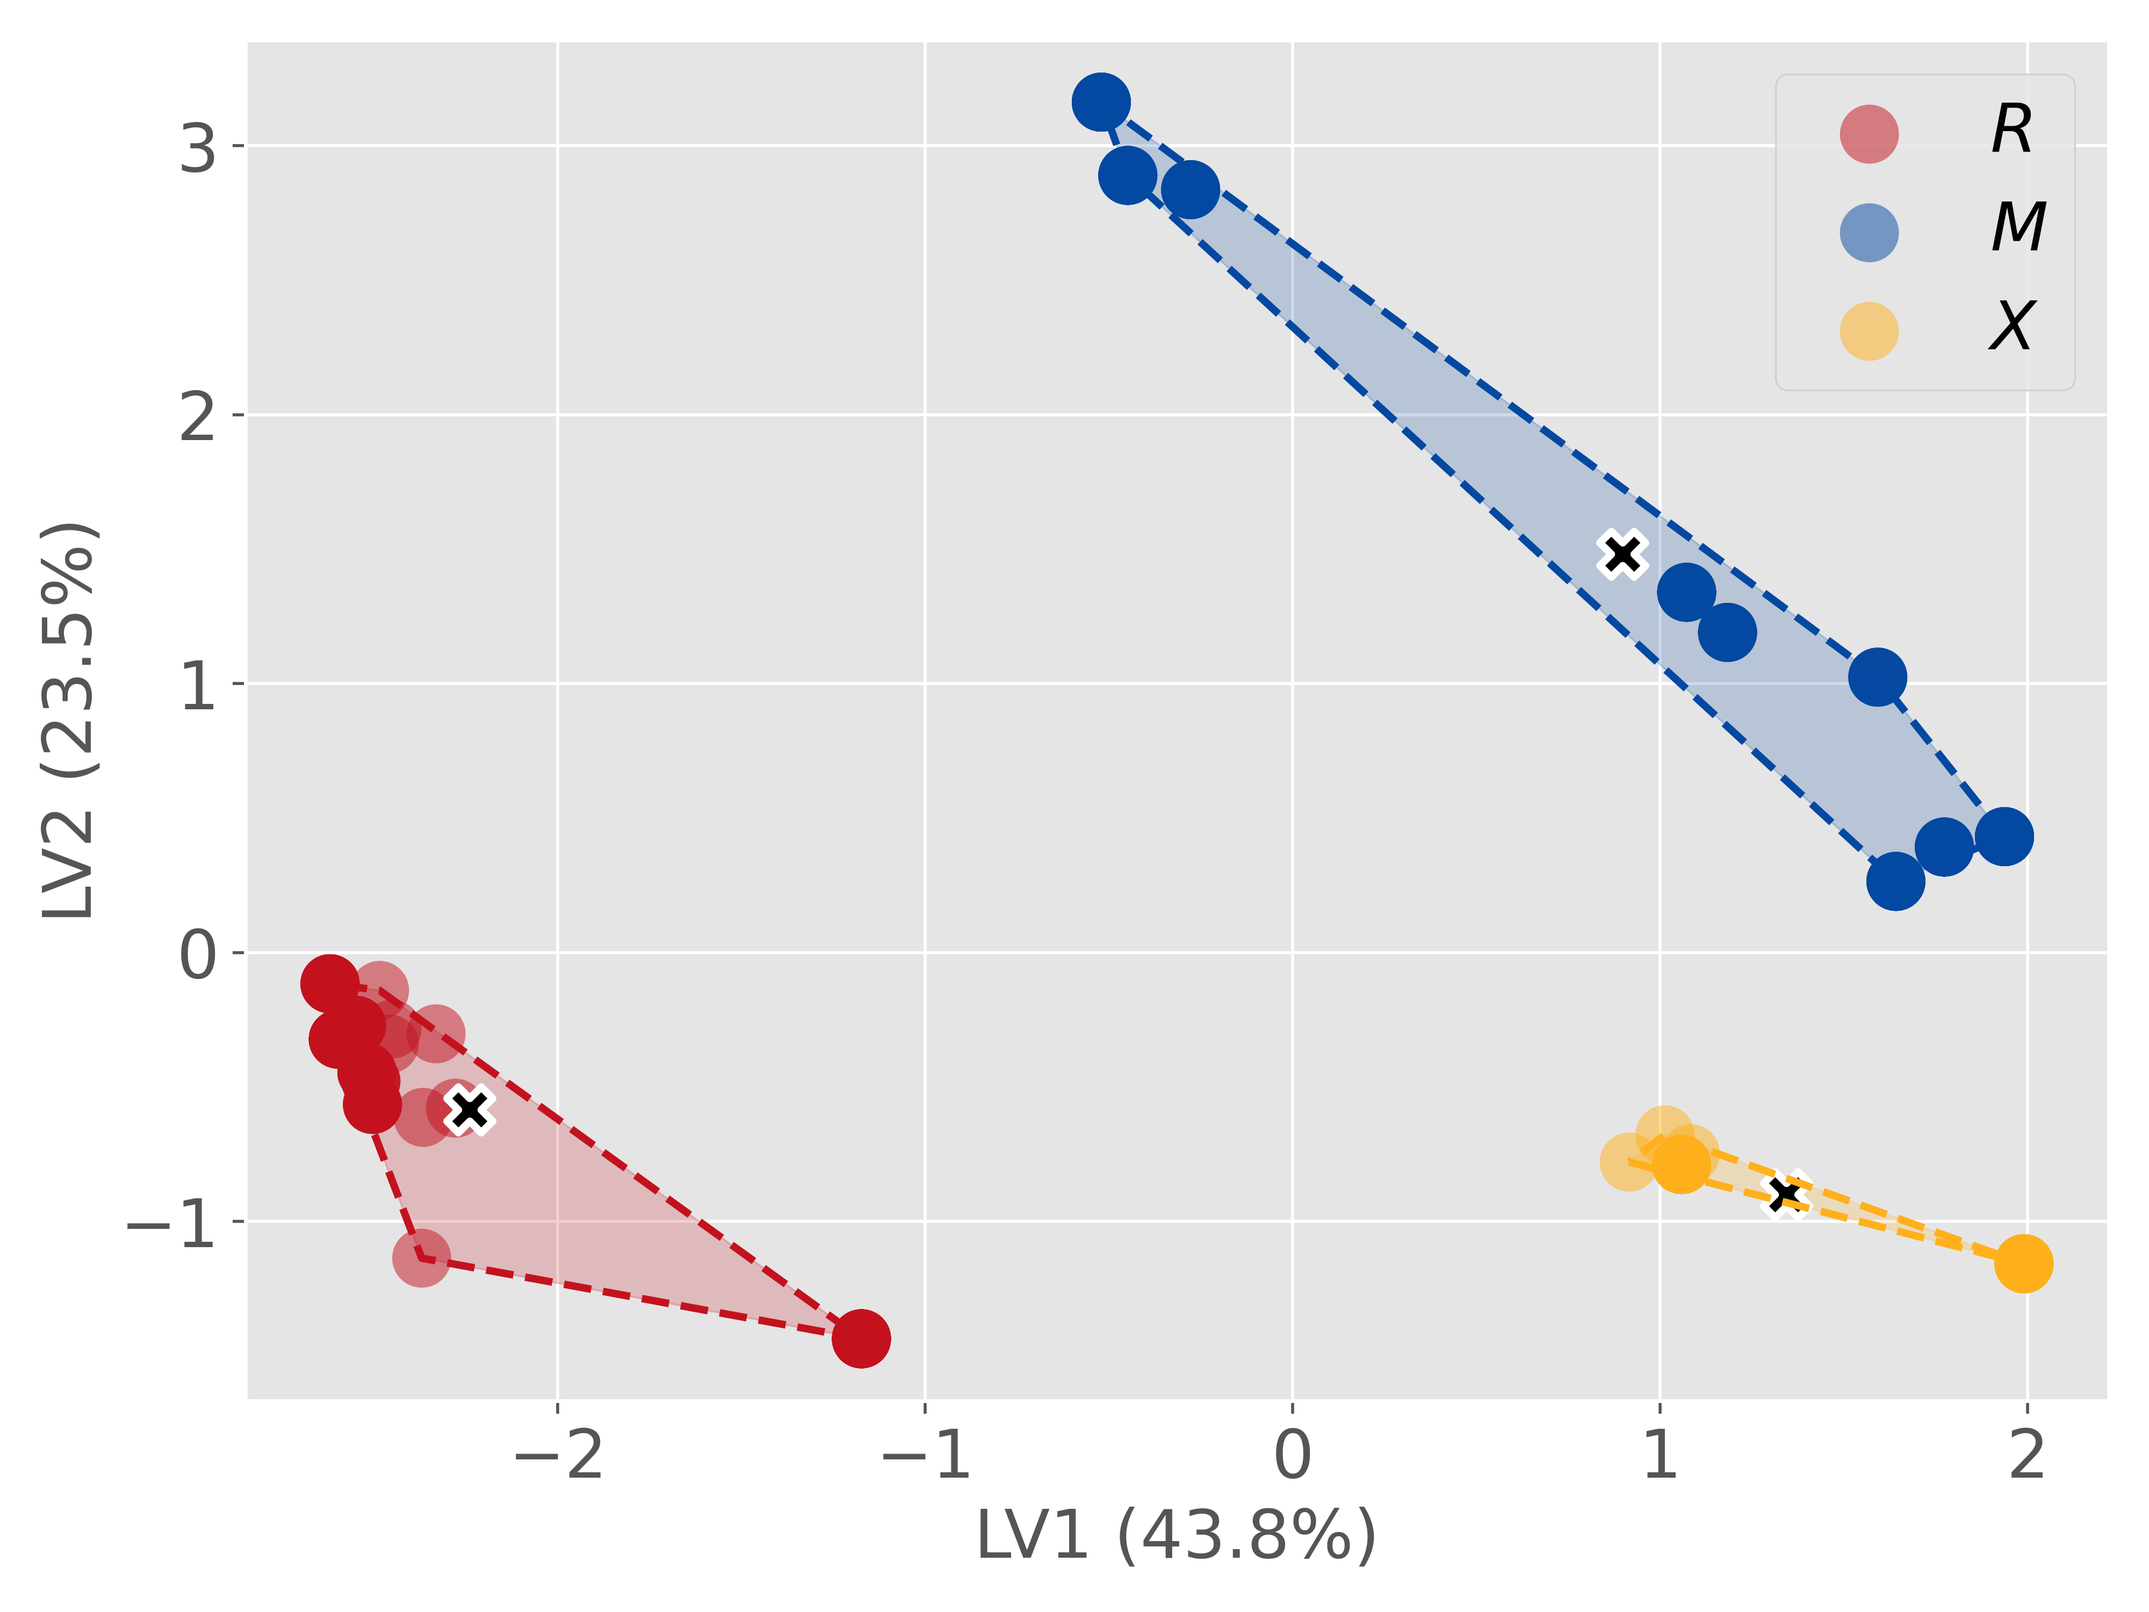
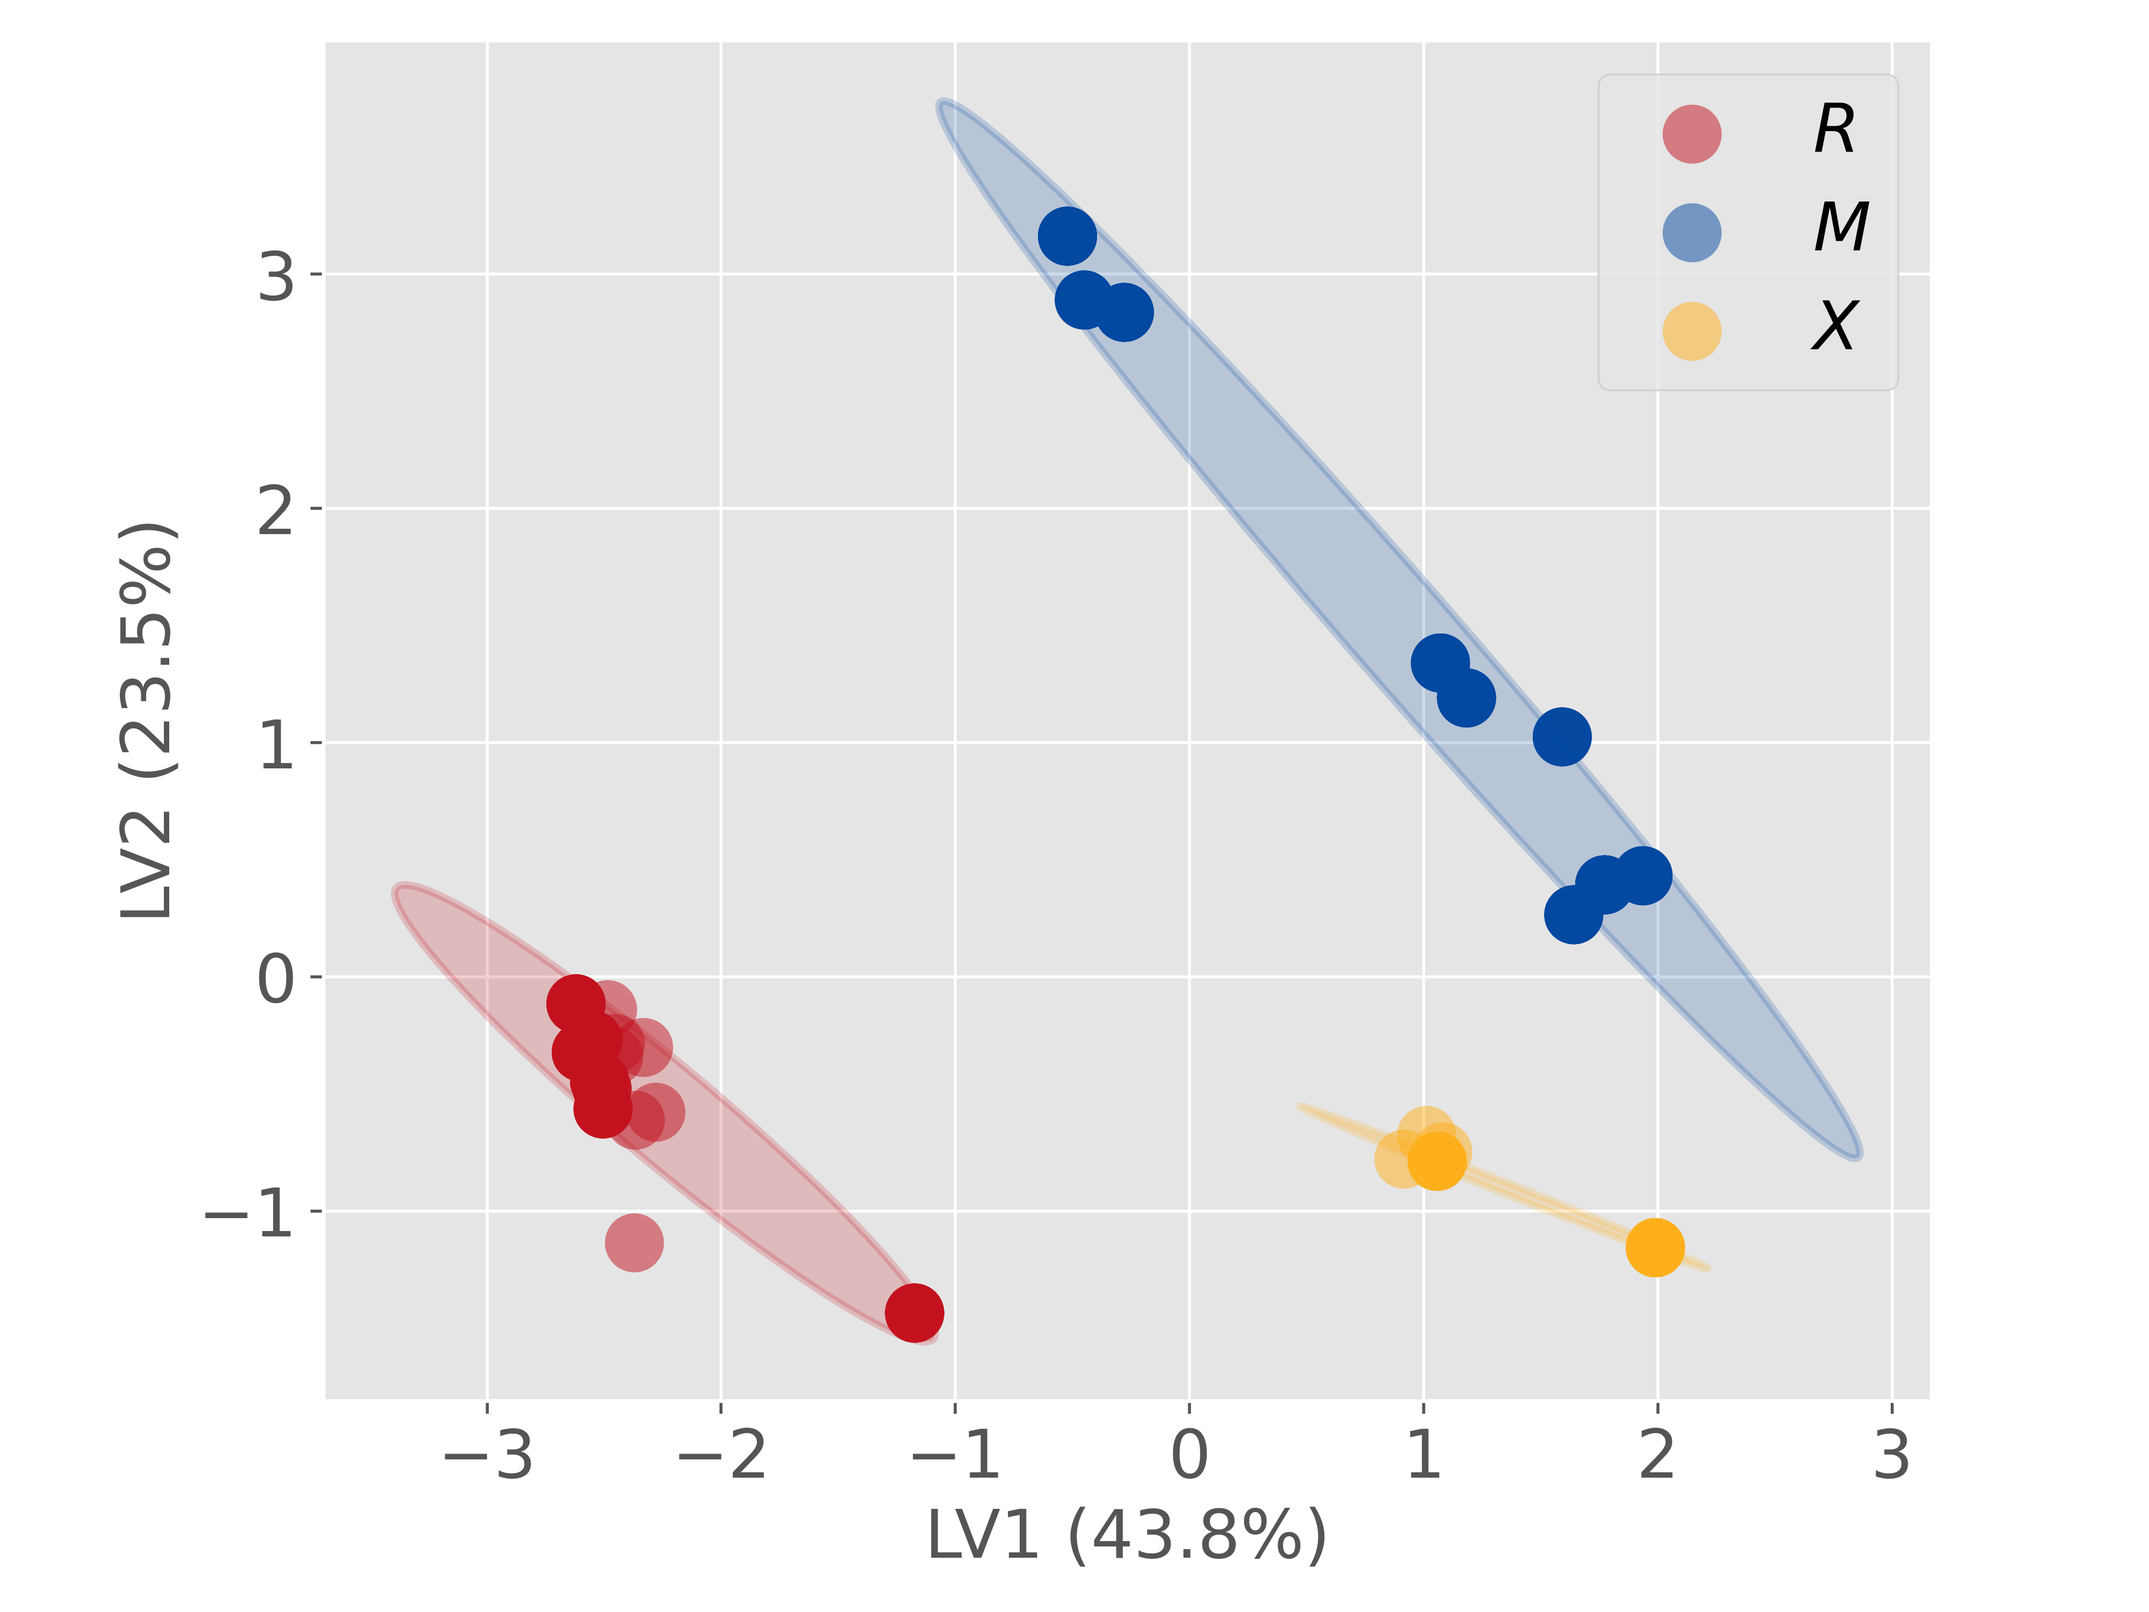
update

diff --git a/models/projection.py b/models/projection.py
@@ -7,40 +7,39 @@ from utils.class_object import SiteElement
 
 # Define your element groups and colors:
 elements_by_group = {
-    "alkali_metals": ["Li", "Na", "K", "Rb", "Cs", "Fr"],
+    "alkali_metals": ["Cd", "Al"],
     "alkaline_earth_metals": ["Be", "Mg", "Ca", "Sr", "Ba", "Ra"],
-    "transition_metals": [
-        "Sc", "Ti", "V", "Cr", "Mn", "Fe", "Co", "Ni", "Cu", "Zn",
-        "Y", "Zr", "Nb", "Mo", "Tc", "Ru", "Rh", "Pd", "Ag", "Cd",
-        "Hf", "Ta", "W", "Re", "Os", "Ir", "Pt", "Au", "Hg",
-        "Rf", "Db", "Sg", "Bh", "Hs", "Mt", "Ds", "Rg", "Cn"
+    "transition_metals": ["Os", "Ir", "Rh", "Pd", "Ru", "Pt", "Fe", "Co", "Ni",
     ],
     "lanthanides": [
-        "La", "Ce", "Pr", "Nd", "Pm", "Sm", "Eu", "Gd", "Tb", "Dy", 
-        "Ho", "Er", "Tm", "Yb", "Lu"
+        "Sm", "Gd", "Tb", "Dy", 
+        "Ho", "Er", "Tm", "Lu", "Y"
     ],
     "actinides": [
-        "Ac", "Th", "Pa", "U", "Np", "Pu", "Am", "Cm", "Bk", "Cf", 
-        "Es", "Fm", "Md", "No", "Lr"
+        "Yb", "Eu", "La", "Ce", "Pr", "Nd", "Pm", "Ac", "Th", "Pa", "U", "Np", "Pu", "Am", "Cm", "Bk", "Cf", 
+        "Es", "Fm", "Md", "No", "Lr", "Li", "Na", "K", "Rb", "Cs", "Fr"
     ],
-    "metalloids": ["B", "Si", "Ge", "As", "Sb", "Te", "Po"],
+    "metalloids": ["B", "Si", "Ge", "As", "Sb", "Te", "Po", "Sc", "Ti", "V", "Cr", "Mn", "Cu", "Zn",
+         "Zr", "Nb", "Mo",  "Tc",   "Ag", 
+        "Hf", "Ta", "W", "Re",  "Au", "Hg",
+        "Rf", "Db", "Sg", "Bh", "Hs", "Mt", "Ds", "Rg", "Cn"],
     "non_metals": ["H", "C", "N", "O", "P", "S", "Se"],
     "halogens": ["F", "Cl", "Br", "I", "At", "Ts"],
     "noble_gases": ["He", "Ne", "Ar", "Kr", "Xe", "Rn", "Og"],
-    "post_transition_metals": ["Al", "Ga", "In", "Sn", "Tl", "Pb", "Bi", "Nh", "Fl", "Mc", "Lv"]
+    "post_transition_metals": ["Ga", "In", "Sn", "Tl", "Pb", "Bi", "Nh", "Fl", "Mc", "Lv"]
 }
 
 group_colors = {
-    "alkali_metals": "blue",
-    "alkaline_earth_metals": "turquoise",
-    "transition_metals": "palegreen",
-    "lanthanides": "yellow",
-    "actinides": "goldenrod",
-    "metalloids": "orange",
-    "non_metals": "orangered",
-    "halogens": "red",
-    "noble_gases": "skyblue",
-    "post_transition_metals": "darkgreen",
+    "alkali_metals": "#ffb01c",
+    "alkaline_earth_metals": "grey",
+    "transition_metals": "#0348a1",
+    "lanthanides": "#c3121e",
+    "actinides": "grey",
+    "metalloids": "grey",
+    "non_metals": "grey",
+    "halogens": "grey",
+    "noble_gases": "grey",
+    "post_transition_metals": "grey",
     "Other": "grey"
 }
 
@@ -150,26 +149,26 @@ def plot_elements_from_plsda_loadings(pls_loadings,
                      horizontalalignment='center', verticalalignment='center')
     
     # -------- New: Draw dashed outline (filled with alpha=0.2) for sites if sites_df is provided --------
-    if sites_df is not None:
-        # Import the SiteElement class.
-        # It is assumed that this class is stored in utils/class.py.
+    # if sites_df is not None:
+    #     # Import the SiteElement class.
+    #     # It is assumed that this class is stored in utils/class.py.
         
 
-        # Initialize sets to collect unique primary elements for each site.
-        unique_2c = set()
-        unique_6h2 = set()
-        unique_RE = set()
-        for _, row in sites_df.iterrows():
-            site = SiteElement(row)
-            if site.site_2c:
-                unique_2c.add(site.site_2c)
-            if site.site_6h2:
-                unique_6h2.add(site.site_6h2)
-            if site.site_RE:
-                unique_RE.add(site.site_RE)
+    #     # Initialize sets to collect unique primary elements for each site.
+    #     unique_2c = set()
+    #     unique_6h2 = set()
+    #     unique_RE = set()
+    #     for _, row in sites_df.iterrows():
+    #         site = SiteElement(row)
+    #         if site.site_2c:
+    #             unique_2c.add(site.site_2c)
+    #         if site.site_6h2:
+    #             unique_6h2.add(site.site_6h2)
+    #         if site.site_RE:
+    #             unique_RE.add(site.site_RE)
         
-        # Define colors for outlines.
-        site_outline_colors = {"M": "#0348a1", "6h (2)": "#ffb01c", "R": "#c3121e"}
+    #     # Define colors for outlines.
+    #     site_outline_colors = {"M": "#0348a1", "6h (2)": "#ffb01c", "R": "#c3121e"}
         
         def plot_outline(subset, label, color):
             """
@@ -198,19 +197,23 @@ def plot_elements_from_plsda_loadings(pls_loadings,
                 plt.fill(hull_points_closed[:, 0], hull_points_closed[:, 1], 
                          color=color, alpha=0.2)
         
-        # For site "M":
-        subset_2c = merged_df[merged_df["Symbol"].isin(unique_2c)]
-        plot_outline(subset_2c, "2c Outline", site_outline_colors["M"])
+        # # For site "M":
+        # subset_2c = merged_df[merged_df["Symbol"].isin(unique_2c)]
+        # plot_outline(subset_2c, "2c Outline", site_outline_colors["M"])
         
-        # For site "6h (2)":
-        subset_6h2 = merged_df[merged_df["Symbol"].isin(unique_6h2)]
-        plot_outline(subset_6h2, "6h (2) Outline", site_outline_colors["6h (2)"])
+        # # For site "6h (2)":
+        # subset_6h2 = merged_df[merged_df["Symbol"].isin(unique_6h2)]
+        # plot_outline(subset_6h2, "6h (2) Outline", site_outline_colors["6h (2)"])
         
-        # For site "R":
-        subset_RE = merged_df[merged_df["Symbol"].isin(unique_RE)]
-        plot_outline(subset_RE, "RE Outline", site_outline_colors["R"])
+        # # For site "R":
+        # subset_RE = merged_df[merged_df["Symbol"].isin(unique_RE)]
+        # plot_outline(subset_RE, "RE Outline", site_outline_colors["R"])
     # -------------------------------------------------------------------------------------------
-    
+    plt.xlabel("PC1", fontsize=18)
+    plt.ylabel("PC2", fontsize=18)
+
+    plt.gca().set_aspect('equal', adjustable='box')
+
     plt.tick_params(axis='both', labelsize=18)
     plt.tight_layout()
     plt.savefig("elements_plot.png", dpi=500)

diff --git a/models/plsda.py b/models/plsda.py
@@ -1,9 +1,31 @@
 import pandas as pd
 import numpy as np
 import matplotlib.pyplot as plt
+from matplotlib.patches import Ellipse
 from sklearn.preprocessing import StandardScaler, MinMaxScaler
 from sklearn.cross_decomposition import PLSRegression
-from scipy.spatial import ConvexHull 
+
+def plot_confidence_ellipse(x, y, ax, n_std=2.0, edgecolor='black', facecolor='none', alpha=1.0, **kwargs):
+    if x.size != y.size:
+        raise ValueError("x and y must have the same size")
+    
+    # Compute the covariance and its eigenvalues/eigenvectors
+    cov = np.cov(x, y)
+    mean_x, mean_y = np.mean(x), np.mean(y)
+    eigvals, eigvecs = np.linalg.eig(cov)
+    
+    # Determine the angle in degrees
+    angle = np.degrees(np.arctan2(eigvecs[1, 0], eigvecs[0, 0]))
+    
+    # Width and height of the ellipse scaled by the standard deviation factor
+    width, height = 2 * n_std * np.sqrt(eigvals)
+    
+    # Create and add the ellipse patch with the specified alpha for transparency
+    ellipse = Ellipse((mean_x, mean_y), width=width, height=height,
+                      angle=angle, edgecolor=edgecolor,
+                      facecolor=facecolor, lw=2, alpha=alpha, **kwargs)
+    ax.add_patch(ellipse)
+    return ellipse
 
 def run_pls_da(df, output_loadings_excel="PLS_DA_Full_Loadings.xlsx"):
     # -----------------------------
@@ -17,7 +39,8 @@ def run_pls_da(df, output_loadings_excel="PLS_DA_Full_Loadings.xlsx"):
     scaler = StandardScaler()
     X_scaled = scaler.fit_transform(X)
     
-    # Normalize each sample (row) to unit norm (L2 normalization)
+    # Normalize each sample (row) to unit norm (L2 normalization) using a MinMaxScaler
+    # (alternatively, you might want to use a row-wise normalization method)
     minmax_scaler = MinMaxScaler()
     X_normalized = minmax_scaler.fit_transform(X_scaled)
     
@@ -42,7 +65,7 @@ def run_pls_da(df, output_loadings_excel="PLS_DA_Full_Loadings.xlsx"):
     explained_ratio = explained_variances / total_variance * 100
     
     # -----------------
-    # Generate scatter plot with convex hull outlines (filled) and centroids (no legend)
+    # Generate scatter plot with ellipsoids for class space and centroids (no legend for ellipses)
     # -----------------
     colors = [
         "#c3121e",  # Sangre
@@ -55,45 +78,39 @@ def run_pls_da(df, output_loadings_excel="PLS_DA_Full_Loadings.xlsx"):
     ]
     
     plt.style.use('ggplot')
-    plt.figure(figsize=(8, 6), dpi=500)
+    fig, ax = plt.subplots(figsize=(8, 6), dpi=500)
     
     unique_classes = y.unique()
     color_map = {cls: colors[i % len(colors)] for i, cls in enumerate(unique_classes)}
     
+    # Loop over each class to plot the points and the corresponding confidence ellipse
     for cls in unique_classes:
         idx = (y == cls)
         points = X_scores[idx, :]  # Points for the current class
-
-        # Plot the scatter points for the class
-        plt.scatter(points[:, 0], points[:, 1],
-                    color=color_map[cls], label=cls, s=250, alpha=0.5, edgecolors="none")
-                    
-        # Compute and plot a convex hull outline if there are enough points (>=3)
-        if points.shape[0] >= 3:
-            hull = ConvexHull(points)
-            hull_points = points[hull.vertices]
-            # Close the polygon by appending the first point at the end
-            hull_points = np.concatenate([hull_points, hull_points[0:1]], axis=0)
-            
-            # Fill the area of the convex hull with a transparent version of the class color
-            plt.fill(hull_points[:, 0], hull_points[:, 1],
-                     color=color_map[cls], alpha=0.2, label='_nolegend_')
-            
-            # Plot the outline of the convex hull
-            plt.plot(hull_points[:, 0], hull_points[:, 1],
-                     color=color_map[cls], lw=2, linestyle='--')
         
-        # Compute and plot the centroid of the current class (centroid marker not added to the legend)
-        centroid = np.mean(points, axis=0)
-        plt.scatter(centroid[0], centroid[1], marker='X', color='black', 
-                    s=150, edgecolors='white', linewidth=2)
+        # Scatter the points for the class
+        ax.scatter(points[:, 0], points[:, 1],
+                   color=color_map[cls], label=cls, s=250, alpha=0.5, edgecolors="none")
+        
+        # Add the ellipsoidal space
+        # You can adjust n_std for a wider/narrower ellipse if desired.
+        plot_confidence_ellipse(points[:, 0], points[:, 1], ax, n_std=2.0,
+                        edgecolor=color_map[cls],
+                        facecolor=color_map[cls],  # Use the same color as the edge or another preferred color
+                        alpha=0.2)
     
-    plt.xlabel(f"LV1 ({explained_ratio[0]:.1f}%)", fontsize=18)
-    plt.ylabel(f"LV2 ({explained_ratio[1]:.1f}%)", fontsize=18)
-    legend = plt.legend(fontsize=18)
+    ax.set_xlabel(f"LV1 ({explained_ratio[0]:.1f}%)", fontsize=18)
+    ax.set_ylabel(f"LV2 ({explained_ratio[1]:.1f}%)", fontsize=18)
+    
+    # Adding and styling the legend
+    legend = ax.legend(fontsize=18)
     for text in legend.get_texts():
         text.set_fontstyle('italic')
+    
     plt.tick_params(axis='both', labelsize=18)
+
+    ax.set_aspect('equal', adjustable='box')
+    
     plt.tight_layout()
     plt.savefig("PLS_DA_Scatter_Plot.png", dpi=500)
     plt.show()

diff --git a/models/visualization.py b/models/visualization.py
@@ -173,7 +173,7 @@ def visualize_elements(sites_df=None, compounds_markers=True, coordinate_file="o
                     marker_color = "#027608"
                     alpha = 1
                     size = COMPOUND_MARKER_SIZE * 1.5
-                    line_width = COMPOUND_LINE_WIDTH * 2  # Double the line width for candidate.
+                    line_width = COMPOUND_LINE_WIDTH * 3  # Double the line width for candidate.
                     # Instead of plotting a filled marker, create a Circle patch:
                     candidate_marker = plt.Circle((weighted_coord[0], weighted_coord[1]),
                                                 radius=0.25,  # size/2 gives an appropriate radius
@@ -184,6 +184,7 @@ def visualize_elements(sites_df=None, compounds_markers=True, coordinate_file="o
                                                 alpha=alpha,
                                                 zorder=5)
                     ax.add_patch(candidate_marker)
+                    linestyle="--"
                 else:
                     marker_color = COMPOUND_MARKER_COLOR
                     alpha = 0.3
@@ -195,12 +196,13 @@ def visualize_elements(sites_df=None, compounds_markers=True, coordinate_file="o
                             markerfacecolor=marker_color,
                             zorder=5, alpha=alpha,
                             markeredgecolor="none")
+                    linestyle="-"
 
                 # Draw connecting lines from the compound marker to each element of the compound.
                 for el in compound_elements:
                     el_coord = element_coords[el]
                     ax.plot([weighted_coord[0], el_coord[0]], [weighted_coord[1], el_coord[1]],
-                            color=marker_color, linestyle="-",
+                            color=marker_color, linestyle=linestyle,
                             linewidth=line_width, zorder=4, alpha=alpha)
 
     plt.tight_layout()
